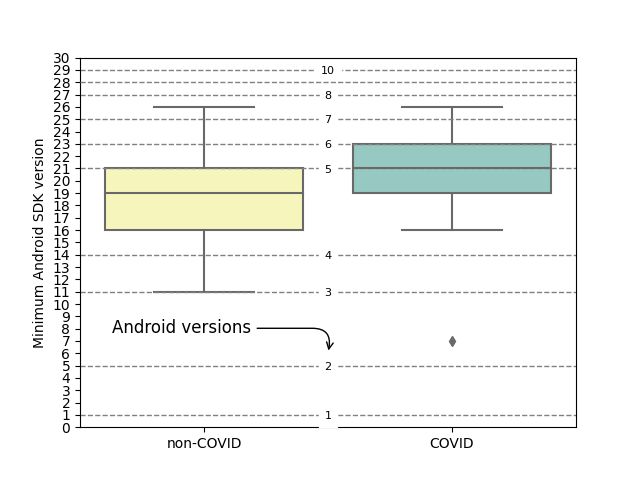
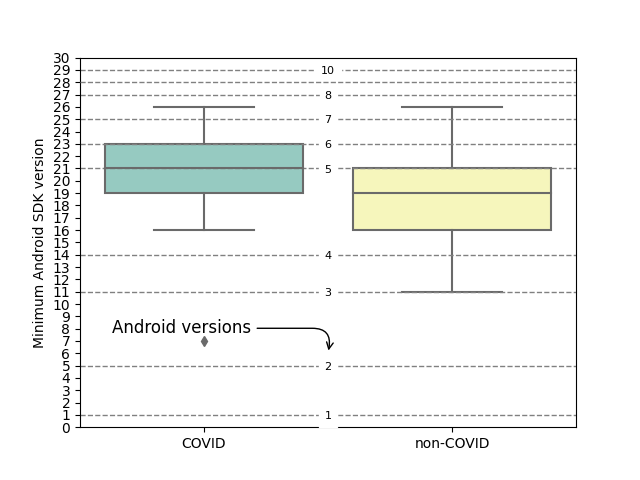
Implemented analysis, plotting, and statistical analysis for the SQ data

diff --git a/code/quality_analysis.py b/code/quality_analysis.py
@@ -1,0 +1,78 @@
+import json
+from datetime import datetime
+import os
+import shutil
+import re
+import pandas as pd  
+import seaborn as sns
+import csv
+import scipy.stats
+import matplotlib.ticker as ticker
+import matplotlib.pyplot as plt
+import matplotlib.cm as cm
+import matplotlib.colors as colors
+import configuration as c
+
+def csv_dict_list(file):
+    reader = csv.DictReader(file)
+    dict_list = []
+    for line in reader:
+        dict_list.append(line)
+    return dict_list
+
+def get_sq_results(app, sq_data):
+    app_name = app['id'] + c.SEPARATOR + app['latest_crawled_version'] + '.apk'
+    for sq_entry in sq_data:
+        if(sq_entry['Name'] == app_name):
+            return sq_entry
+
+def make_numeric(item):
+    if item == '-' or item == '':
+        return None
+    else:
+        return float(item)
+
+def polish_data(data):
+    polished_data = {}
+    polished_data['bugs'] = make_numeric(data['Bugs'])
+    polished_data['vulnerabilities'] = make_numeric(data['Vulnerabilities'])
+    polished_data['smells'] = make_numeric(data['Code Smells'])
+    polished_data['duplication'] = make_numeric(data['Duplication'])
+    polished_data['locs'] = make_numeric(data['#LOC'])
+    return polished_data
+
+def plot(df, var_name, label):
+    to_plot = sns.boxplot(data=df, x='is_covid', y=var_name, palette="Set3", order=[True, False])
+    to_plot.set_xticklabels(['COVID', 'non-COVID'])
+    to_plot.set(xlabel='', ylabel=label)
+    fig = to_plot.get_figure()
+    fig.savefig(c.figures_path + var_name + '.png')
+    to_plot.get_figure().clf()
+
+    values_covid = df[df['is_covid'] == True][var_name].tolist()
+    values_non_covid = df[df['is_covid'] == False][var_name].tolist()
+    stats, p = scipy.stats.mannwhitneyu(values_covid, values_non_covid, alternative='two-sided')
+    print('P-value for the Mann-Whitney stat on variable ' + var_name + ': ' + str(p))
+
+# Analyze the SonarQube results 
+def analyse_quality(apps):
+
+    with open('../data/sonarqube_data.csv', newline='') as csv_file:
+        sq_data = csv_dict_list(csv_file)
+        for app in apps:
+            sq_results = get_sq_results(app, sq_data)
+            sq_results = polish_data(sq_results)
+            app['bugs'] = sq_results['bugs']
+            app['vulnerabilities'] = sq_results['vulnerabilities']
+            app['smells'] = sq_results['smells']
+            app['duplication'] = sq_results['duplication']
+            app['locs'] = sq_results['locs']
+    
+    df = pd.DataFrame(apps) 
+    print(df.describe())
+
+    plot(df, 'bugs', 'Number of bugs')
+    plot(df, 'vulnerabilities', 'Number of vulnerabilities')
+    plot(df, 'smells', 'Number of code smells')
+    plot(df, 'duplication', 'Level of code duplication')
+    plot(df, 'locs', 'Number of lines of code')

diff --git a/code/sdk_analysis.py b/code/sdk_analysis.py
@@ -89,16 +89,10 @@ def analyse_sdks(apps):
 
     df = pd.DataFrame(apps) 
 
-    # Align the colors to the other analyses
-    color_1 = '#FFFFB3'
-    color_2 = '#8DD2C7'
-    colors_list = [color_1, color_2]
-    sns.set_palette(sns.color_palette(colors_list))
-
-    plot_min_sdk = sns.boxplot(data=df, x="is_covid", y="min_sdk")
+    plot_min_sdk = sns.boxplot(data=df, x="is_covid", y="min_sdk", palette="Set3", order=[True, False])
     plot_min_sdk.yaxis.set_major_locator(ticker.MultipleLocator(1))
     plot_min_sdk.set(ylim=(0, 30))
-    plot_min_sdk.set_xticklabels(['non-COVID', 'COVID'])
+    plot_min_sdk.set_xticklabels(['COVID', 'non-COVID'])
     plot_min_sdk.set(xlabel='', ylabel='Minimum Android SDK version')
     plot_min_sdk.axhline(1, ls='--', linewidth=1, color='grey')
     plot_min_sdk.text(0.5,1-0.5, "1", fontsize=8, backgroundcolor='white', horizontalalignment='center', verticalalignment='bottom')
@@ -129,10 +123,10 @@ def analyse_sdks(apps):
     # We reset again the figure
     plot_min_sdk.get_figure().clf()
 
-    plot_target_sdk = sns.boxplot(data=df, x="is_covid", y="target_sdk")
+    plot_target_sdk = sns.boxplot(data=df, x="is_covid", y="target_sdk", palette="Set3", order=[True, False])
     plot_target_sdk.yaxis.set_major_locator(ticker.MultipleLocator(1))
     plot_target_sdk.set(ylim=(0, 30))
-    plot_target_sdk.set_xticklabels(['non-COVID', 'COVID'])
+    plot_target_sdk.set_xticklabels(['COVID', 'non-COVID'])
     plot_target_sdk.set(xlabel='', ylabel='Target Android SDK version')
     plot_target_sdk.axhline(1, ls='--', linewidth=1, color='grey')
     plot_target_sdk.text(0.5,1-0.5, "1", fontsize=8, backgroundcolor='white', horizontalalignment='center', verticalalignment='bottom')

diff --git a/code/analyzer.py b/code/analyzer.py
@@ -12,6 +12,7 @@ import configuration as c
 import permission_analysis
 import sdk_analysis
 import components_analysis
+import quality_analysis
 
 # Loads all the json files one by one containing the data which will populate the report
 def load_data(app):
@@ -80,6 +81,7 @@ def run_analysis(input_path):
     permission_analysis.analyse_permissions(apps)
     components_analysis.analyse_components(apps)
     sdk_analysis.analyse_sdks(apps)
+    quality_analysis.analyse_quality(apps)
 
 def main():
     run_analysis(c.root_path)
